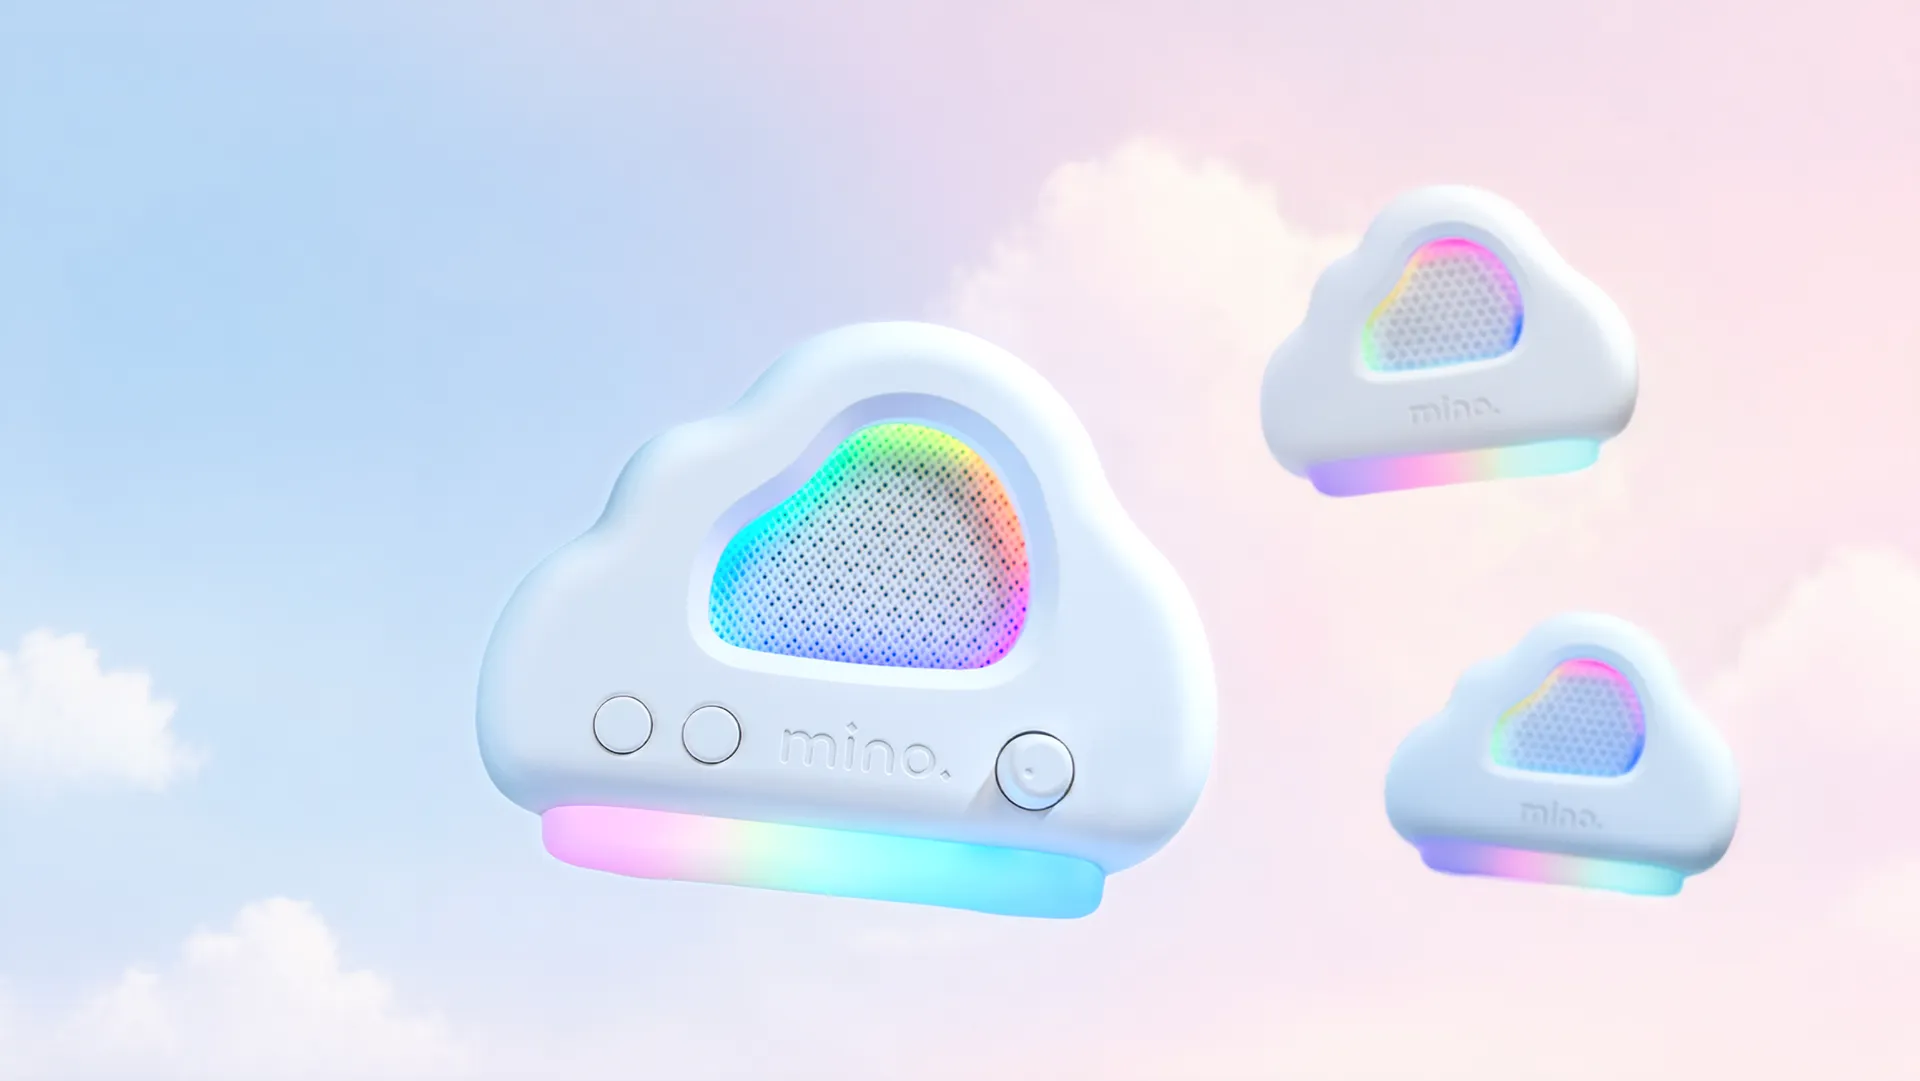
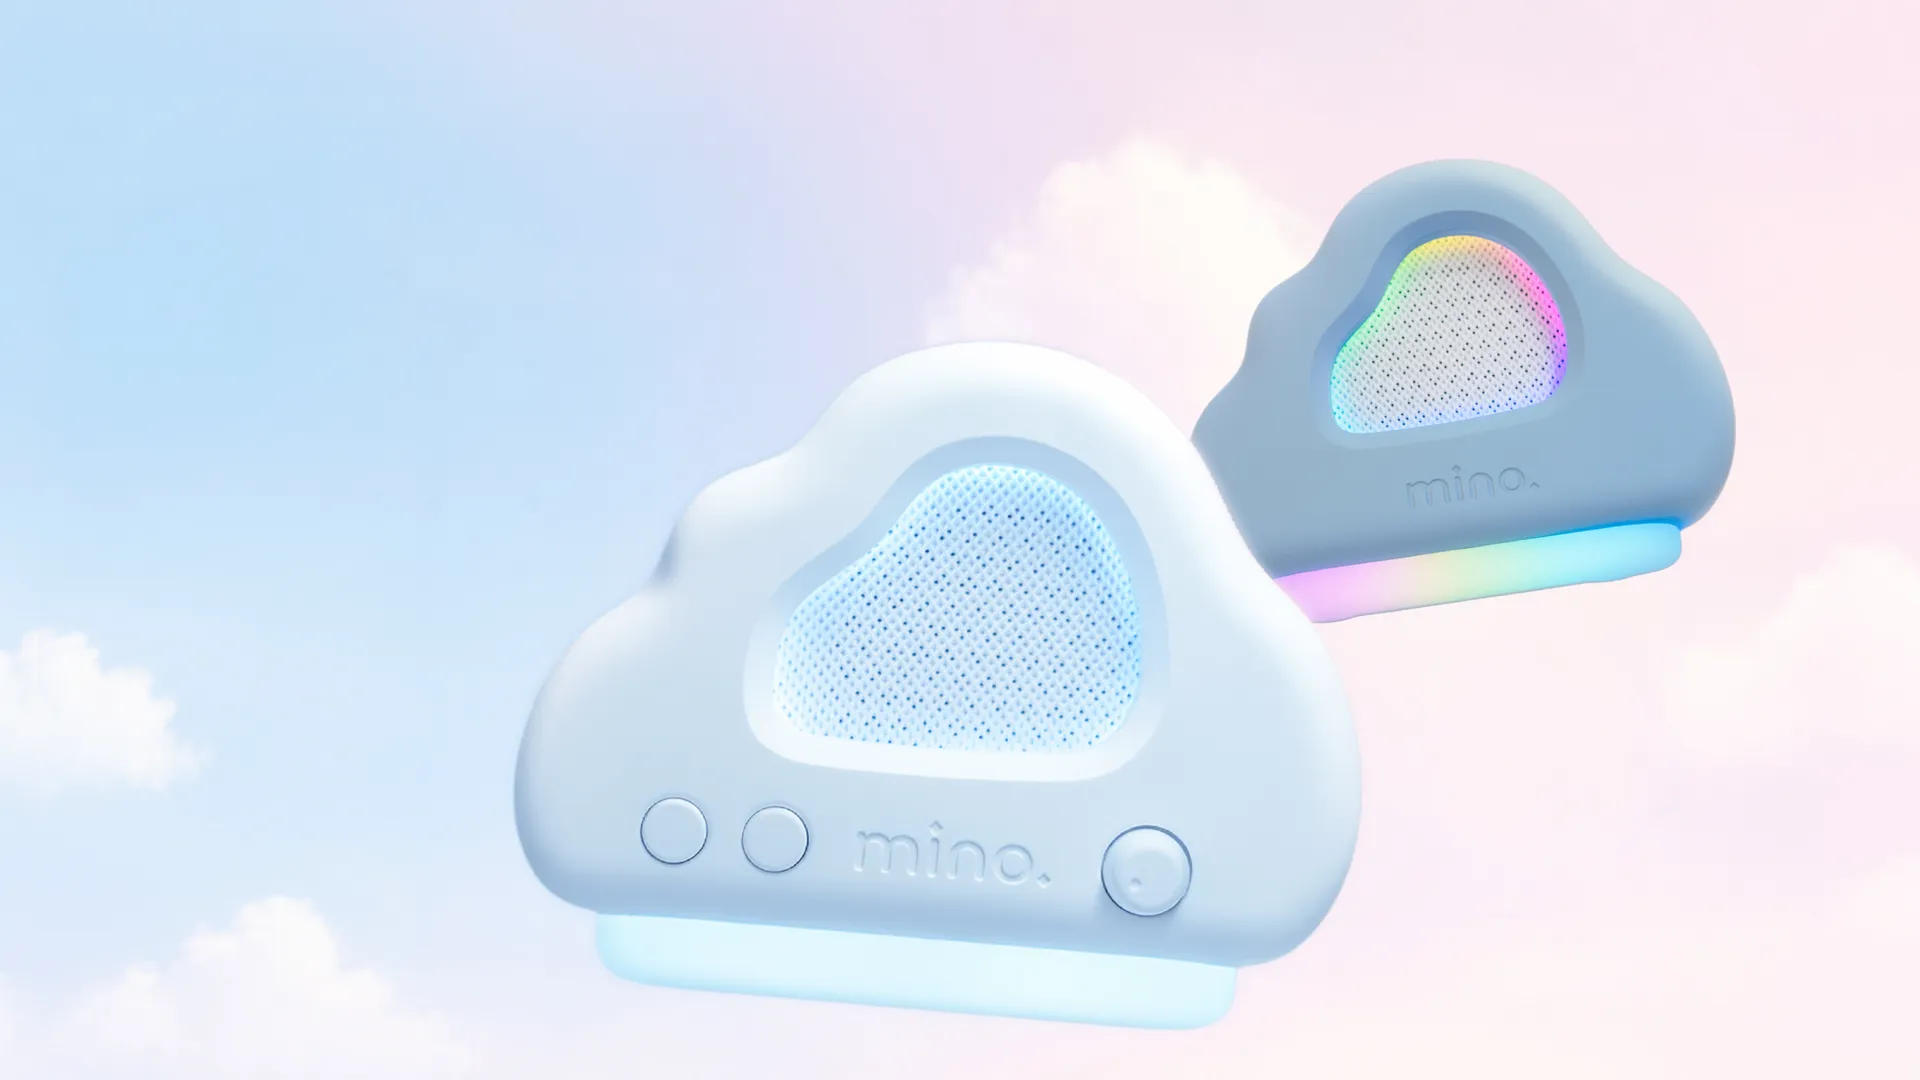
ヒーロー画像差し替え＋キャッチA_001適用＆ドロップシャドウ追加・ライフスタイル中央ブラー削除・スクロール最適化

Changed region(s): [[0.25, 0.1222, 0.9062, 0.9778], [0.3125, 0.4278, 0.3438, 0.4889], [0.375, 0.3361, 0.4062, 0.3667]]

diff --git a/product-cloudspeaker.html b/product-cloudspeaker.html
@@ -77,6 +77,8 @@
       min-height: 540px;
       max-height: 900px;
       overflow: hidden;
+      /* スクロール最適化: 子要素の描画をこのボックス内に閉じる */
+      contain: layout paint;
       background:
         url('images/hero/hero-product-bg.jpg') no-repeat center center / cover,
         linear-gradient(180deg, var(--sky-1) 0%, var(--sky-2) 45%, var(--sky-3) 100%);
@@ -95,6 +97,8 @@
       display: block;
       width: clamp(360px, 36vw, 540px);
       height: auto;
+      /* やわらかい青みのドロップシャドウで雲の上に浮かせる */
+      filter: drop-shadow(0 6px 20px rgba(120, 150, 200, 0.38));
     }
 
     /* 左下: タグライン (やわらかい手書き寄りフォント) */
@@ -189,6 +193,8 @@
       gap: 0;
       overflow: hidden;
       background: #f0eee8;
+      /* スクロール最適化: 子要素の描画をこのボックス内に閉じる */
+      contain: layout paint;
     }
     .lifestyle-pane {
       position: relative;
@@ -202,24 +208,6 @@
       display: block;
       object-fit: cover;
       object-position: center 55%;
-    }
-    /* 中央のブラー帯（左右画像の境目を柔らかく繋ぐ） */
-    .lifestyle::before {
-      content: '';
-      position: absolute;
-      top: 0;
-      bottom: 0;
-      left: 50%;
-      transform: translateX(-50%);
-      width: 160px;
-      z-index: 4;
-      backdrop-filter: blur(20px) saturate(120%);
-      -webkit-backdrop-filter: blur(20px) saturate(120%);
-      background: linear-gradient(90deg,
-        rgba(255,255,255,0) 0%,
-        rgba(255,255,255,0.18) 50%,
-        rgba(255,255,255,0) 100%);
-      pointer-events: none;
     }
     /* SVGテキストオーバーレイ */
     .lifestyle-overlay {
